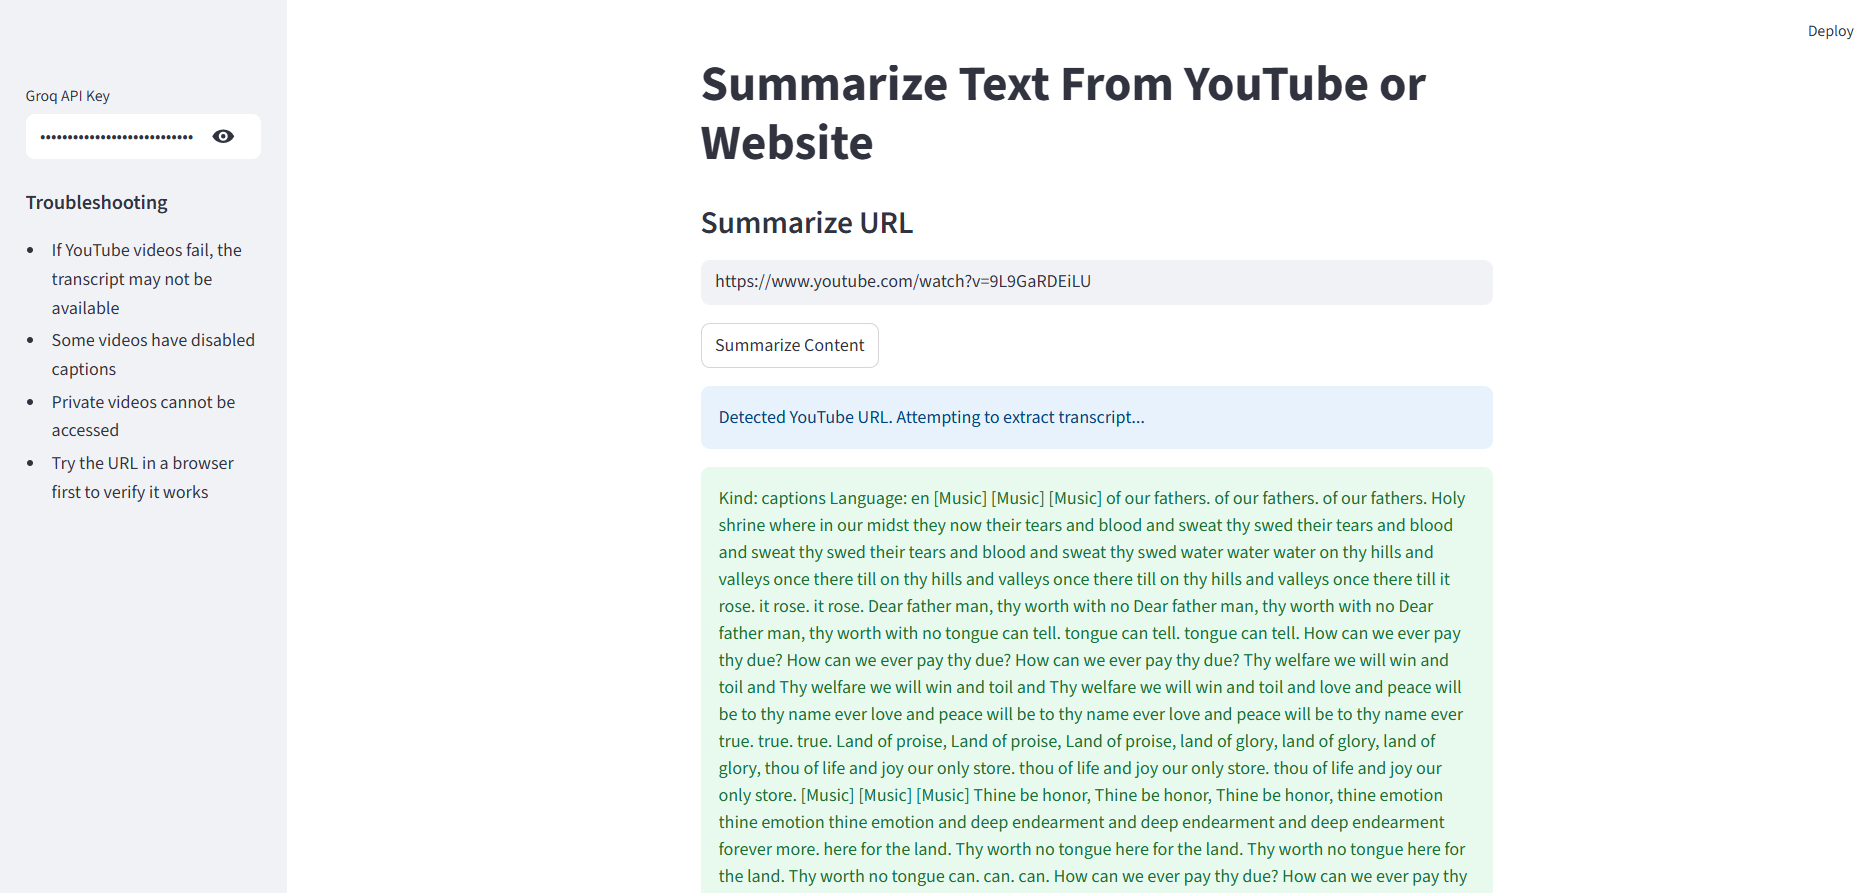
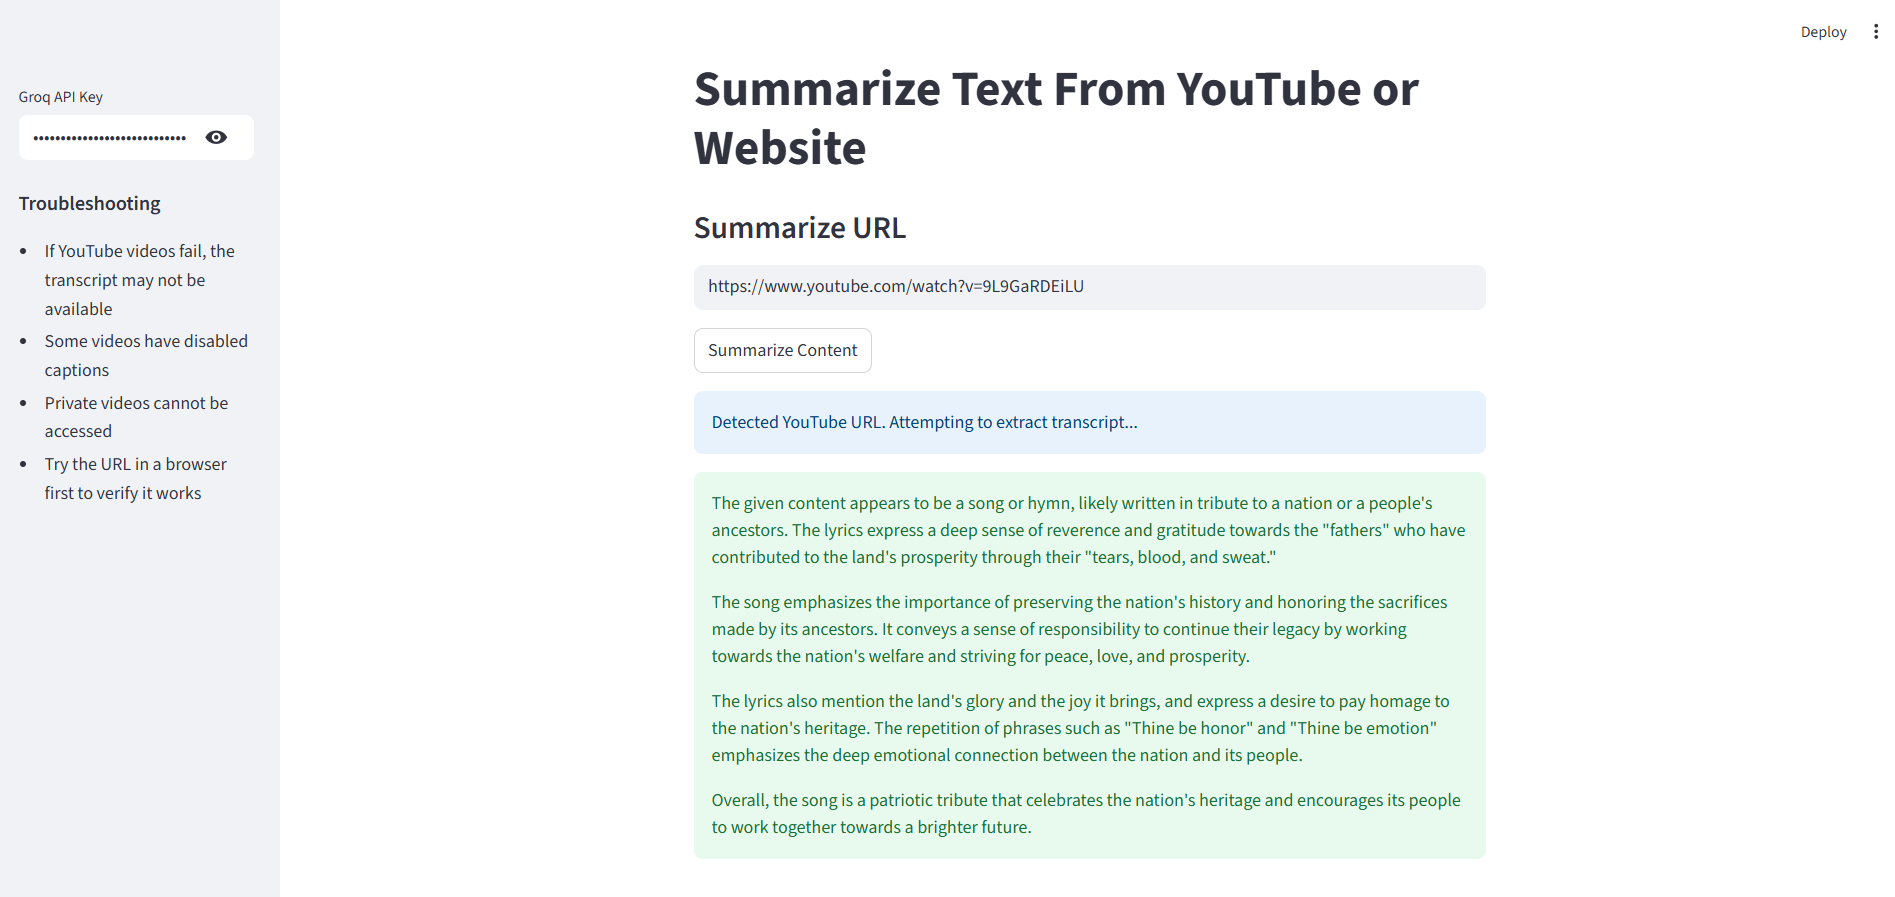
Add files via upload

diff --git a/app.py b/app.py
@@ -240,8 +240,8 @@ if groq_api_key.strip():
                             if content.strip():
                                 with st.spinner("Generating summary..."):
                                     chain = load_summarize_chain(llm, chain_type="stuff", prompt=prompt)
-                                    output_summary = chain.invoke(docs)
-                                    st.success(output_summary['input_documents'][0].page_content)
+                                    output_summary = chain.run(docs)
+                                    st.success(output_summary)
                             else:
                                 st.error("No readable content found at the provided URL.")
                         else:
